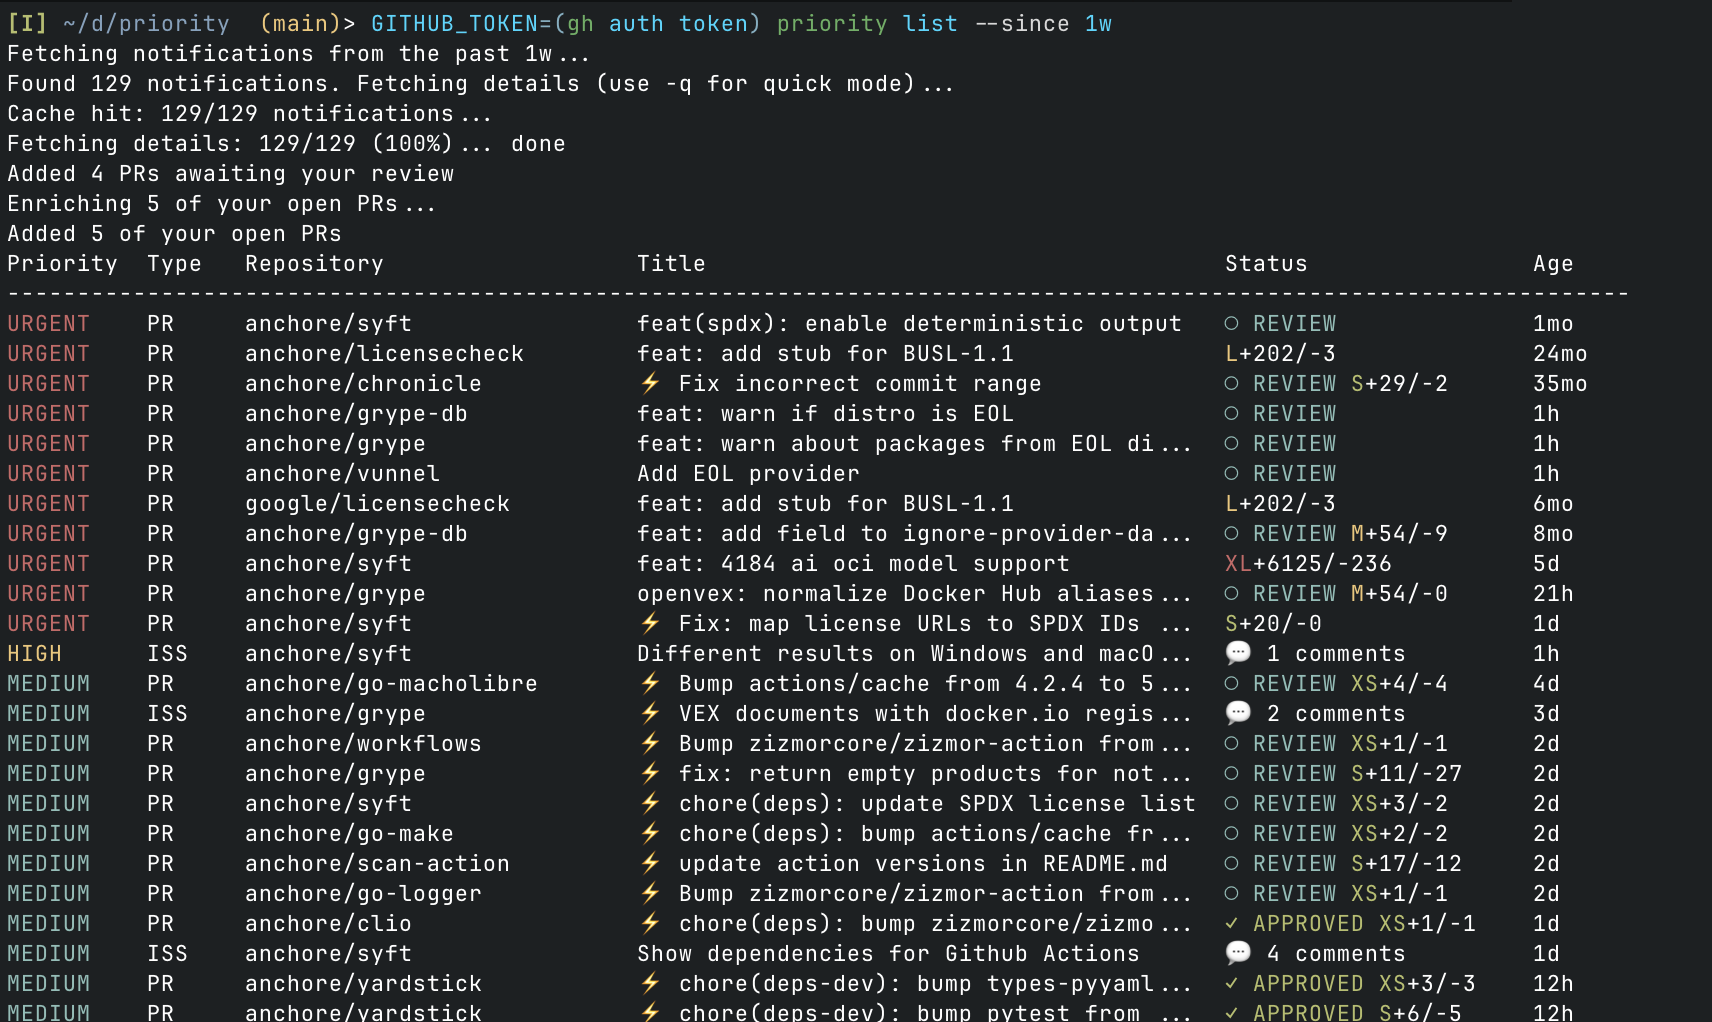
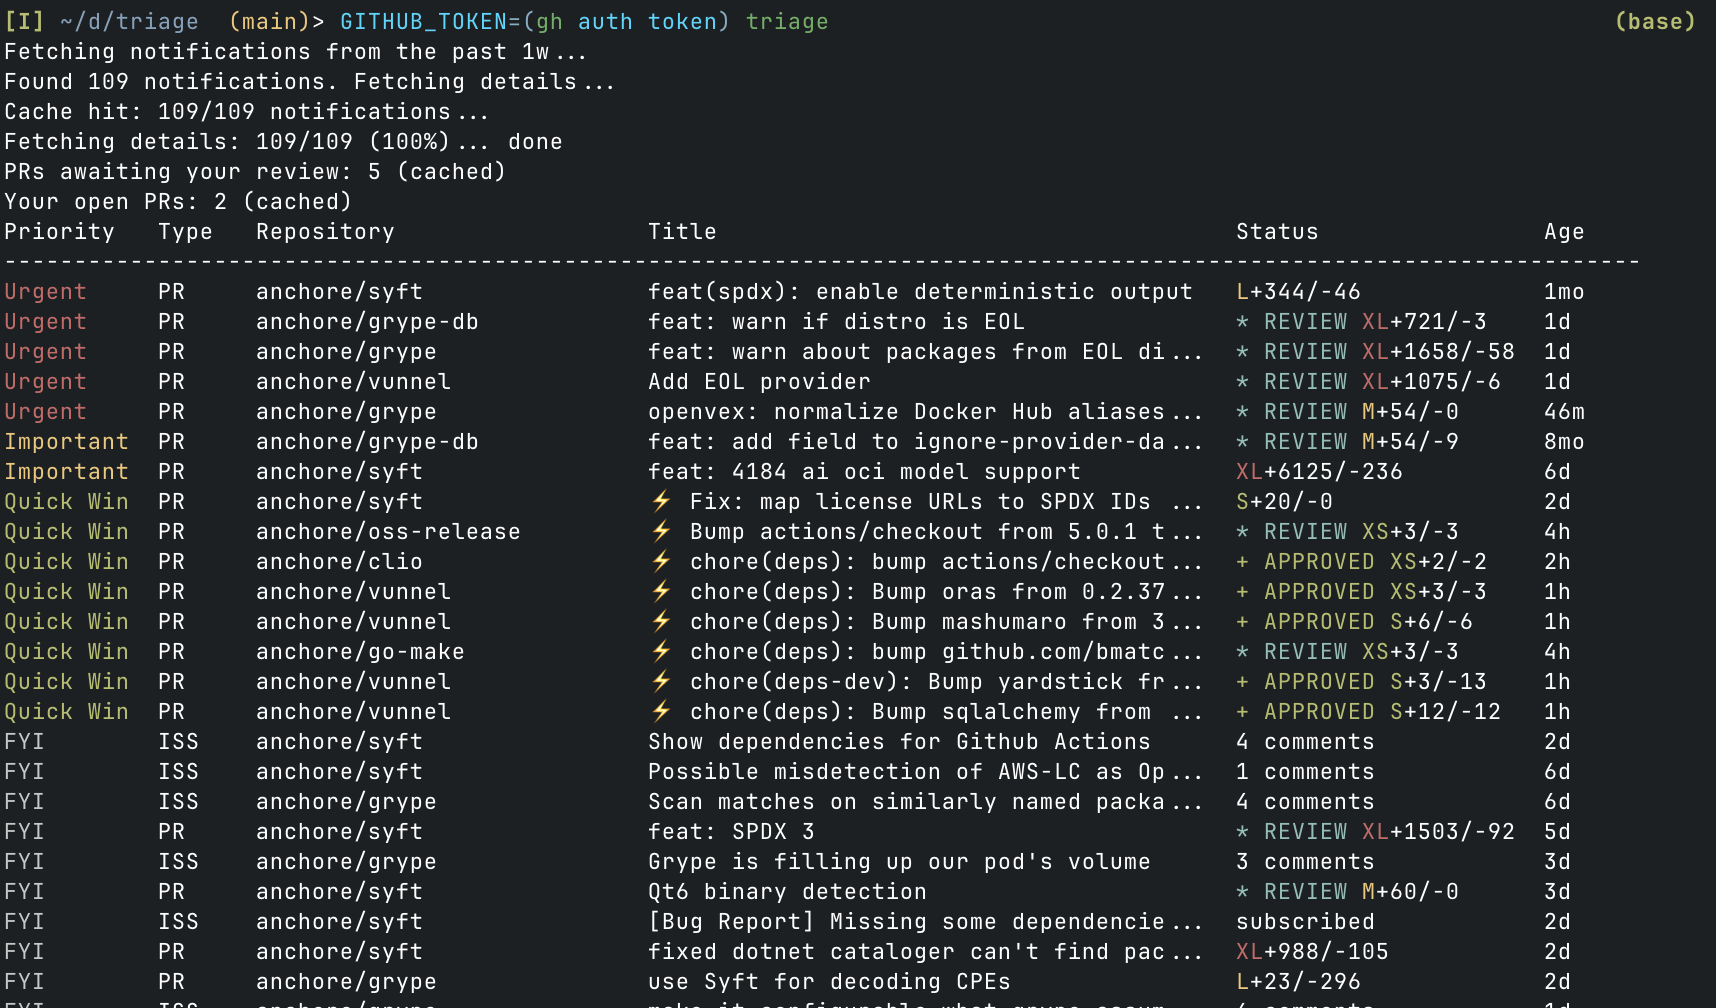
docs: update demo picture with latest ui

diff --git a/README.md b/README.md
@@ -1,6 +1,6 @@
 # triage
 
-A CLI tool that organizes GitHub notifications to help you triage work. It aggregates data from multiple sources—unread notifications, PRs awaiting your review, and your own open PRs. It enriches them with details, and ranks them using configurable heuristics.
+A CLI tool that organizes GitHub notifications to help you triage work. It aggregates data from multiple sources—unread notifications, PRs awaiting your review, and your own open PRs. It enriches them with details, and ranks them using configurable heuristics. All titles are clickable and take the user to the issue or pr.
 
 ![Demo](.github/demo.png)
 
@@ -30,6 +30,7 @@ GITHUB_TOKEN=$(gh auth token) triage
 ### List Notifications
 
 ```bash
+# Make sure GITHUB_TOKEN is set or frontloaded as seen above
 # List prioritized notifications (default: last 1 week)
 triage
 
@@ -77,13 +78,12 @@ triage -f table      # Default
 triage -f json       # JSON for scripting
 
 # Limit results
-triage -l 20         # Top 20 only
-
+triage -l 20         # limit the list
 ```
 
 ### Cache Management
 
-The tool uses a two-tier caching strategy:
+The tool uses a two-tier caching strategy to try and reduce API usage
 - **Item details** (issue/PR metadata): cached for 24 hours
 - **PR lists** (review-requested and authored PRs): cached for 5 minutes
 
